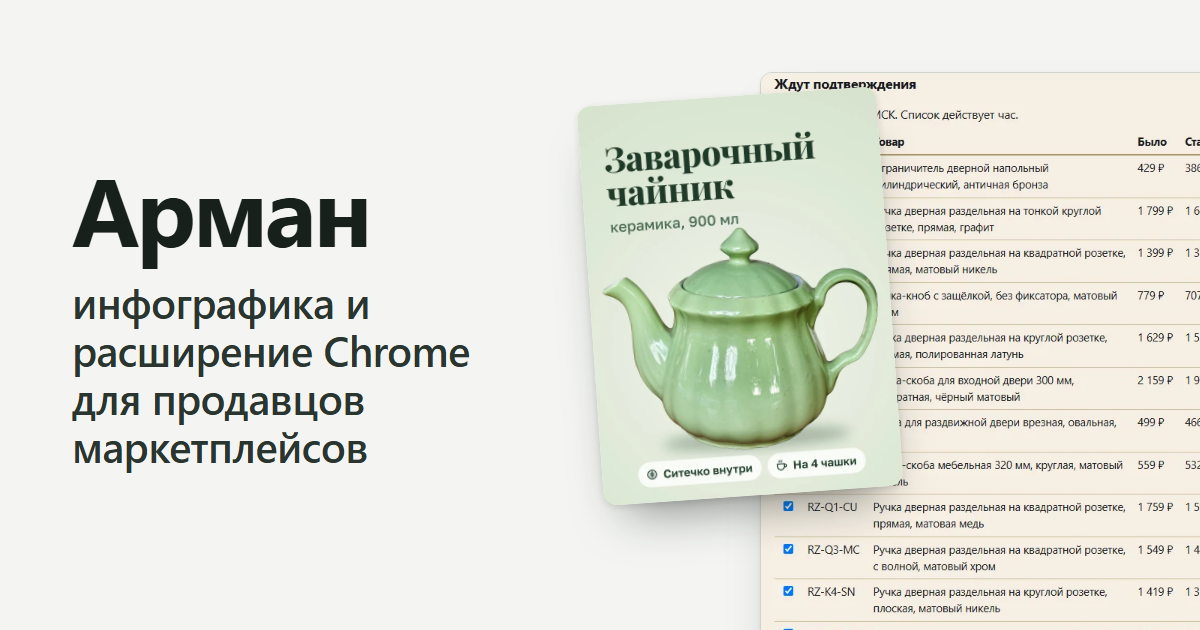
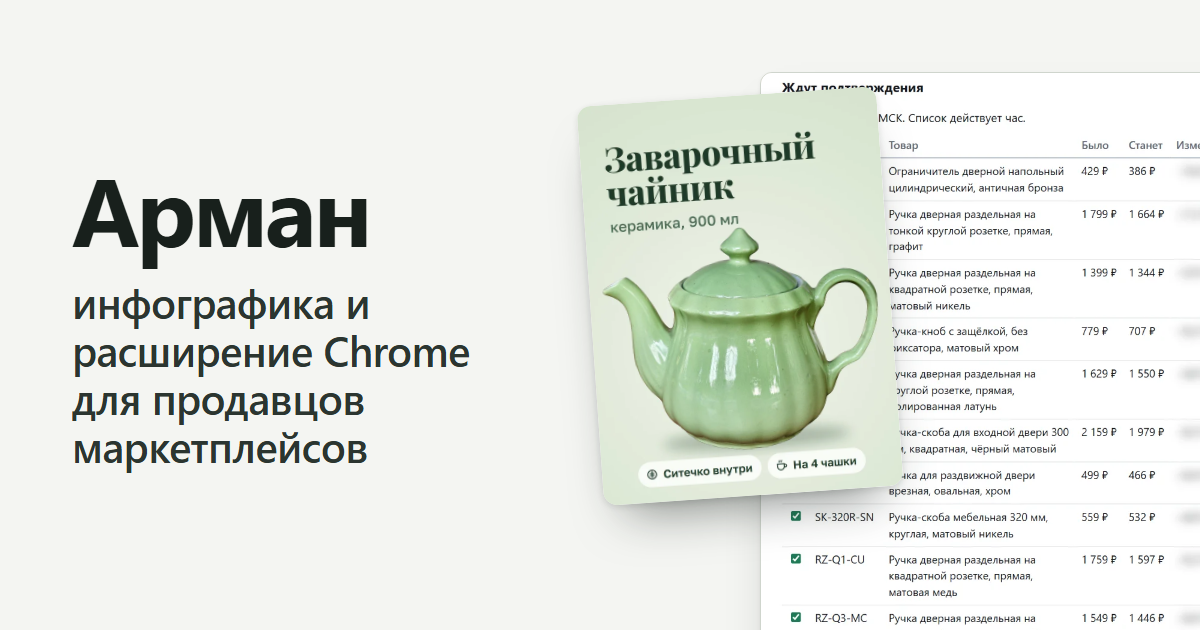
Расширение: светлые скрины вместо бежевых, пары «полэкрана и панель», новая обложка превью

Changed region(s): [[0.6167, 0.0905, 1.0, 1.0]]

diff --git a/extensions.html b/extensions.html
@@ -13,7 +13,7 @@
 <meta property="og:url" content="https://armanch17.github.io/extensions.html">
 <meta property="og:title" content="Расширение Chrome для продавцов маркетплейсов: Арман">
 <meta property="og:description" content="Расширение для Google Chrome, которое автоматизирует работу продавца маркетплейса с большим ассортиментом. Пробная версия на 3 дня бесплатно.">
-<meta property="og:image" content="https://armanch17.github.io/images/cover.png?v=2">
+<meta property="og:image" content="https://armanch17.github.io/images/cover.png?v=3">
 <meta property="og:image:type" content="image/png">
 <meta property="og:image:width" content="1200">
 <meta property="og:image:height" content="630">
@@ -49,23 +49,33 @@
     <p class="feature text"><strong>Заказы в пути.</strong> Расширение не снижает цену товара, который уже едет к покупателю, чтобы заказ не отменили.</p>
     <p class="feature text"><strong>Два режима.</strong> Цены меняются сами или после вашего подтверждения. Во втором режиме вы видите список изменений с причинами и отмечаете, что применить.</p>
 
-    <figure class="shot">
-      <a href="images/prices-check.webp"><img src="images/prices-check.webp" width="1136" height="1900" loading="lazy" decoding="async" alt="Таблица «Ждут подтверждения»: артикул, товар, было, станет. Столбцы «Изменение», «Причина» и «Способ» размыты."></a>
-      <figcaption>Список изменений в режиме с подтверждением: вы отмечаете строки и нажимаете «Применить отмеченные». Данные на снимках условные, часть из них скрыта.</figcaption>
-    </figure>
+    <div class="pair">
+      <figure class="shot">
+        <a href="images/ad-prices.webp"><img src="images/ad-prices.webp" width="1920" height="1080" loading="lazy" decoding="async" alt="Кабинет продавца, справа на половину экрана панель расширения со списком изменений цен. Часть столбцов размыта."></a>
+      </figure>
+      <figure class="shot">
+        <a href="images/prices-check.webp"><img src="images/prices-check.webp" width="1200" height="2760" loading="lazy" decoding="async" alt="Таблица «Ждут подтверждения»: артикул, товар, было, станет. Столбцы «Изменение», «Причина» и «Способ» размыты."></a>
+        <figcaption>Список изменений в режиме с подтверждением: вы отмечаете строки и нажимаете «Применить отмеченные». Данные на снимках условные, часть из них скрыта.</figcaption>
+      </figure>
+    </div>
 
     <p class="feature text"><strong>Журнал и откат.</strong> Каждое изменение записывается в журнал, его можно скачать для Excel. Последнюю проверку можно откатить одной кнопкой.</p>
 
-    <figure class="shot">
-      <a href="images/journal.webp"><img src="images/journal.webp" width="1136" height="997" loading="lazy" decoding="async" alt="Журнал изменений с кнопками «Скачать журнал для Excel» и «Откатить последние изменения». Столбец «Причина» и одна строка размыты."></a>
-      <figcaption>Журнал изменений: артикул, старая и новая цена, итог. Часть данных на снимке скрыта.</figcaption>
-    </figure>
+    <div class="pair">
+      <figure class="shot">
+        <a href="images/ad-journal.webp"><img src="images/ad-journal.webp" width="1920" height="1080" loading="lazy" decoding="async" alt="Кабинет продавца, справа на половину экрана панель расширения с журналом изменений. Столбец «Причина» размыт."></a>
+      </figure>
+      <figure class="shot">
+        <a href="images/journal.webp"><img src="images/journal.webp" width="1200" height="1350" loading="lazy" decoding="async" alt="Журнал изменений с кнопками «Скачать журнал для Excel» и «Откатить последние изменения». Столбец «Причина» и одна строка размыты."></a>
+        <figcaption>Журнал изменений: артикул, старая и новая цена, итог. Часть данных на снимке скрыта.</figcaption>
+      </figure>
+    </div>
 
     <p class="feature text"><strong>Сборка FBS.</strong> Лист подбора с фото товаров и этикетки маркетплейса печатаются в одном порядке, по артикулу. Кнопка стоит прямо в личном кабинете продавца.</p>
 
     <div class="pair">
       <figure class="shot shot-assembly">
-        <a href="images/assembly.webp"><img src="images/assembly.webp" width="1136" height="1355" loading="lazy" decoding="async" alt="Страница «Сборка» с кнопками «Лист подбора» и «Этикетки»: номер строки, фото, артикул, товар, количество, номер отправления и код этикетки."></a>
+        <a href="images/ad-assembly.webp"><img src="images/ad-assembly.webp" width="1920" height="1080" loading="lazy" decoding="async" alt="Кабинет продавца, справа на половину экрана панель расширения: страница «Сборка» с кнопками «Лист подбора» и «Этикетки», номерами строк, фото, артикулами и кодами этикеток."></a>
         <figcaption>Страница «Сборка»: отправления «Готовы к отгрузке» по порядку артикулов. Справа крупный код с этикетки маркетплейса.</figcaption>
       </figure>
       <figure class="shot shot-picklist">

diff --git a/index.html b/index.html
@@ -13,7 +13,7 @@
 <meta property="og:url" content="https://armanch17.github.io/">
 <meta property="og:title" content="Арман: инфографика и расширение Chrome для продавцов маркетплейсов">
 <meta property="og:description" content="Делаю для продавцов маркетплейсов карточки товара и расширение для Google Chrome. В карточке обложка и слайды. Расширение само следит за ценами и помогает собирать заказы.">
-<meta property="og:image" content="https://armanch17.github.io/images/cover.png?v=2">
+<meta property="og:image" content="https://armanch17.github.io/images/cover.png?v=3">
 <meta property="og:image:type" content="image/png">
 <meta property="og:image:width" content="1200">
 <meta property="og:image:height" content="630">
@@ -47,7 +47,7 @@
     <p>Цены по индексу и сборка заказов FBS. Расширение работает в реальной торговле, на ассортименте больше 600 товаров. Пробная версия на 3 дня бесплатно.</p>
     <span class="go">Как работает расширение</span>
     <span class="art" aria-hidden="true">
-      <img src="images/prices-check.webp" alt="" width="1136" height="1900">
+      <img src="images/prices-check.webp" alt="" width="1200" height="2760">
     </span>
   </a>
 </main>

diff --git a/infographics.html b/infographics.html
@@ -13,7 +13,7 @@
 <meta property="og:url" content="https://armanch17.github.io/infographics.html">
 <meta property="og:title" content="Инфографика для карточек маркетплейсов: Арман">
 <meta property="og:description" content="Обложка и слайды карточки товара для маркетплейсов. Обложку делаю в двух-трёх вариантах, лучшую выбираете вы.">
-<meta property="og:image" content="https://armanch17.github.io/images/cover.png?v=2">
+<meta property="og:image" content="https://armanch17.github.io/images/cover.png?v=3">
 <meta property="og:image:type" content="image/png">
 <meta property="og:image:width" content="1200">
 <meta property="og:image:height" content="630">

diff --git a/style.css b/style.css
@@ -416,10 +416,17 @@ section {
 .pair {
   display: grid;
   gap: 20px;
+  margin: 24px 0 32px;
 }
 
 .pair .shot {
   margin: 0;
+}
+
+.pair .shot + .shot img {
+  aspect-ratio: 8 / 9;
+  object-fit: cover;
+  object-position: top;
 }
 
 .ideas {
@@ -442,7 +449,7 @@ section {
   }
 
   .pair {
-    grid-template-columns: 0.84fr 0.71fr;
+    grid-template-columns: 2fr 1fr;
     align-items: start;
   }
 }
